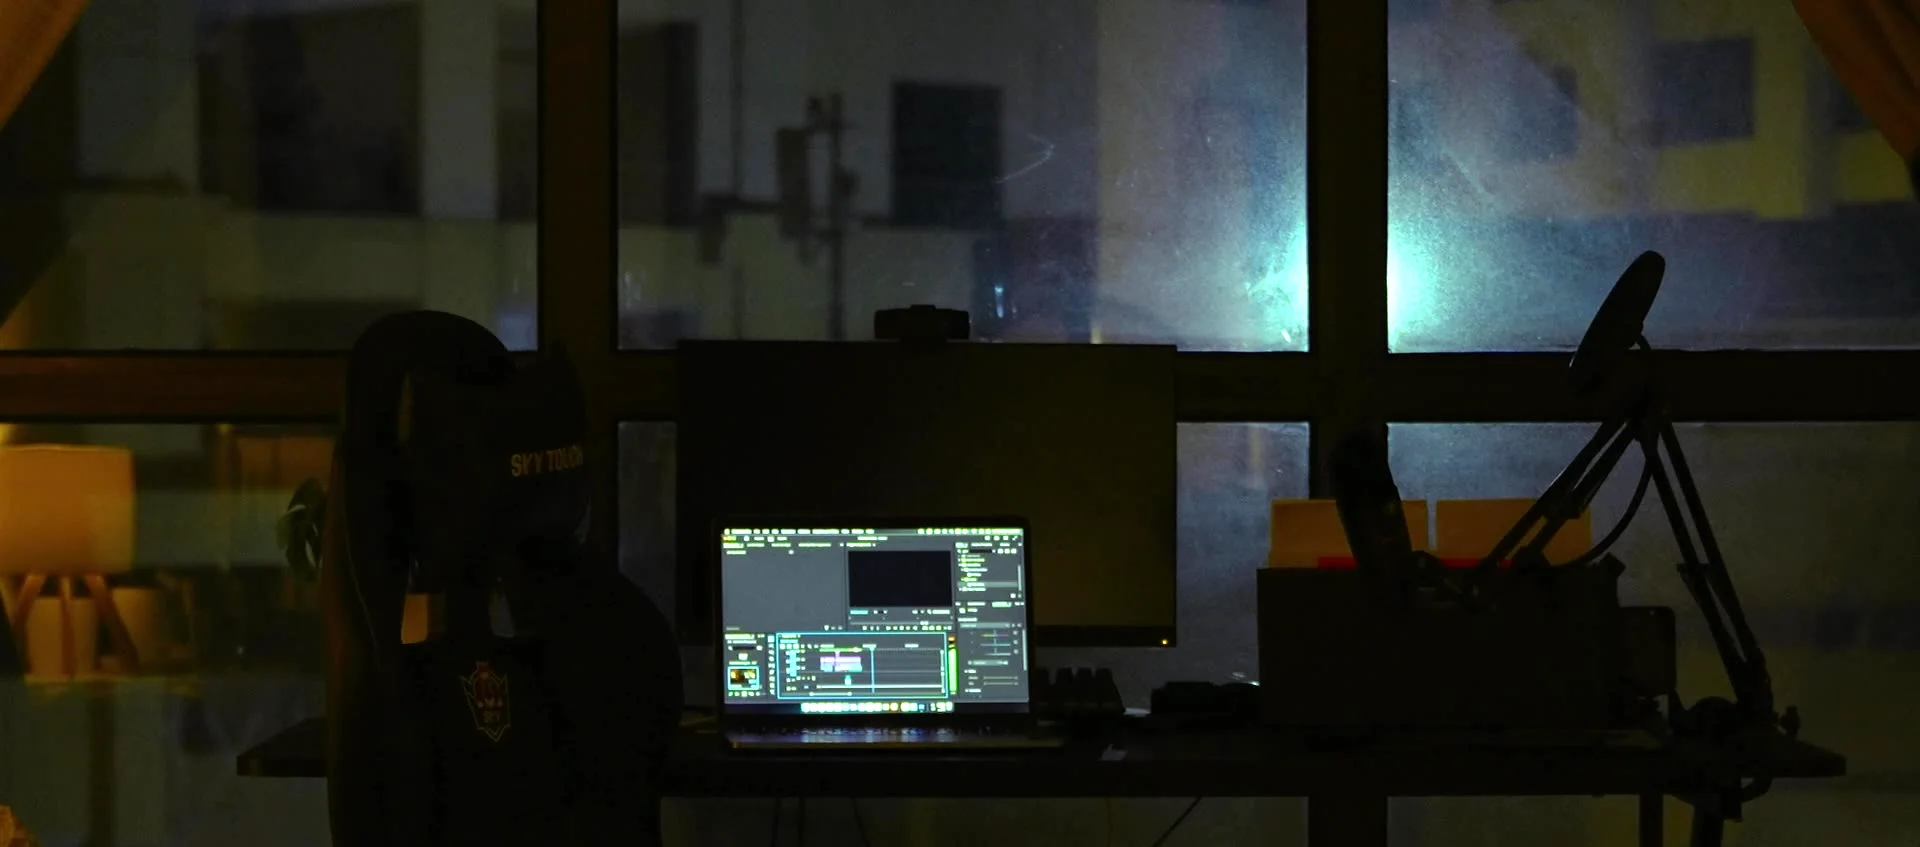
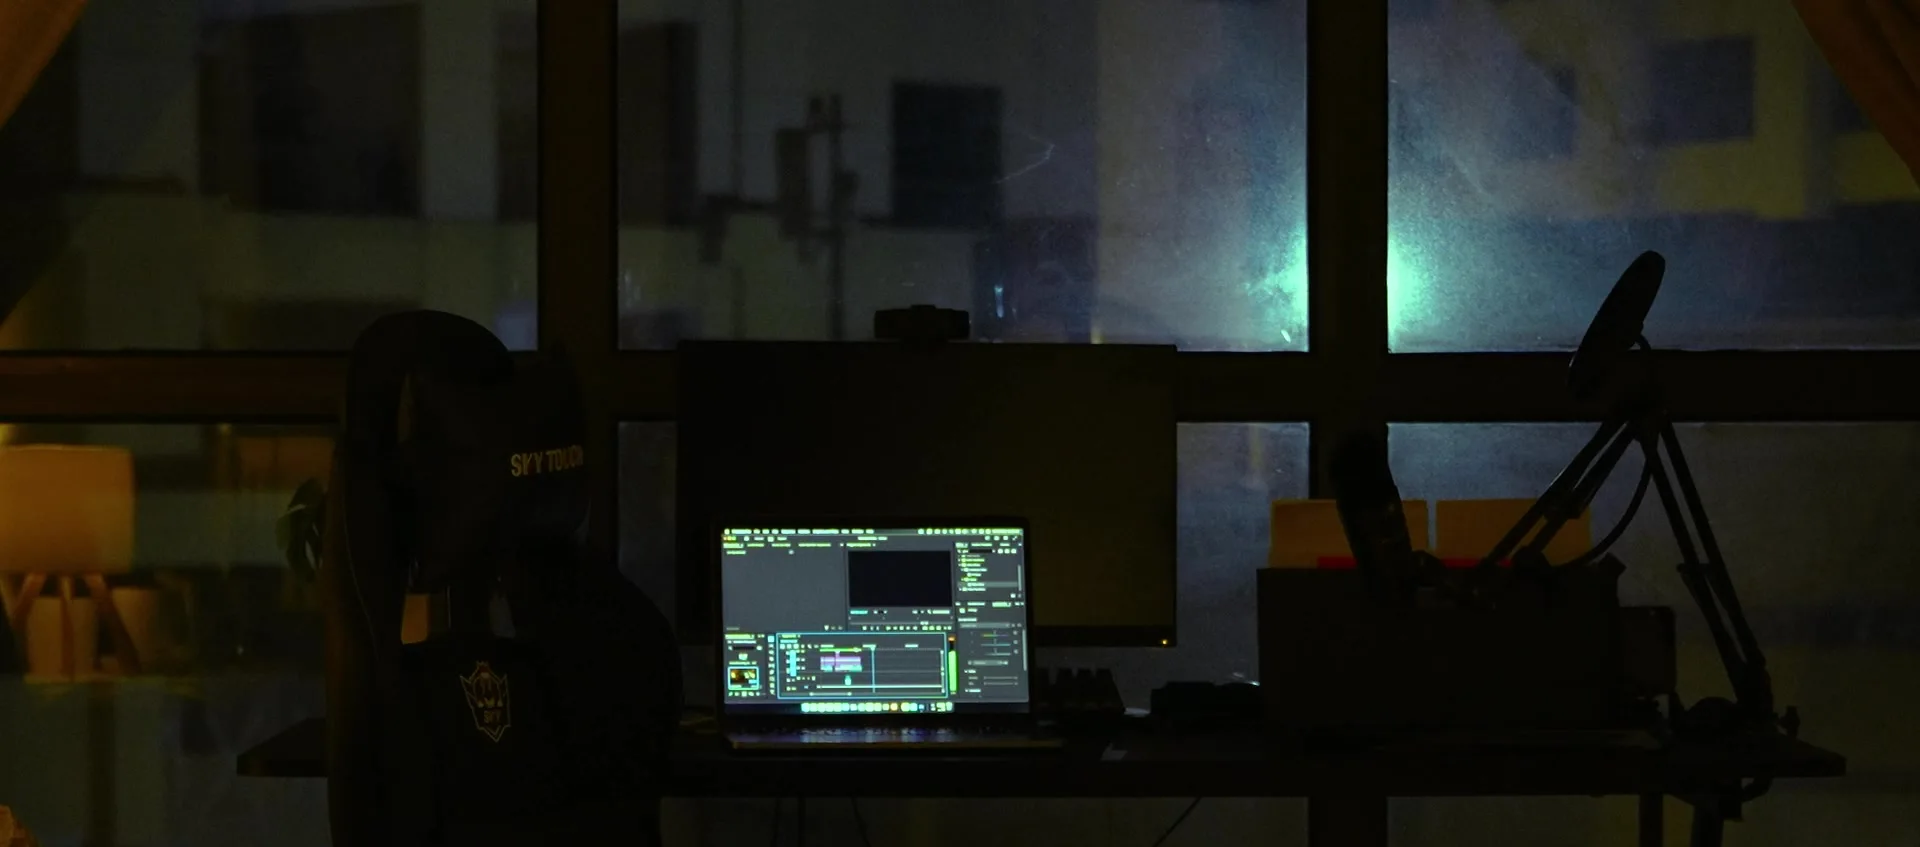
Warwick Application: swap talking-head stills for the film's crafted shots (laptop reveal, 2023 notebook, flip screen, numbered doorway, phone insert, stick figures, editing room)
Claude-Session: https://claude.ai/code/session_018QDTE4aDZzMt5PTbKA9SMX

diff --git a/warwick-application.html b/warwick-application.html
@@ -169,8 +169,8 @@
 </section>
 
 <section class="sc-reel" aria-label="Frames">
-  <figure class="sc-f sc-full reveal"><img src="assets/img/work/warwick/to-camera.webp" loading="lazy" alt="Jack talking straight to camera in a dim, warm-lit room"></figure>
-  <div class="sc-pair"><figure class="sc-f reveal"><img src="assets/img/work/warwick/desk.webp" loading="lazy" alt="Jack looking down at his desk under Route 66 and licence plate signs"></figure><figure class="sc-f reveal"><img src="assets/img/work/warwick/stick-figures.webp" loading="lazy" alt="Stick-figure animation of the three-person crew, each with a camera or clapperboard"></figure></div>
+  <figure class="sc-f sc-full reveal"><img src="assets/img/work/warwick/laptop-reveal.webp" loading="lazy" alt="Jack lit from below as he opens a glowing laptop"></figure>
+  <div class="sc-pair"><figure class="sc-f reveal"><img src="assets/img/work/warwick/notebook.webp" loading="lazy" alt="2023 written in a notebook"></figure><figure class="sc-f reveal"><img src="assets/img/work/warwick/flip-screen.webp" loading="lazy" alt="Jack seen on the flip-out screen of a camera"></figure></div>
 </section>
 
 <section class="sc-text sc-text-alt">
@@ -184,8 +184,9 @@
 </section>
 
 <section class="sc-reel" aria-label="Frames">
+  <figure class="sc-f sc-full reveal"><img src="assets/img/work/warwick/doorway-three.webp" loading="lazy" alt="Jack in a warm-lit doorway with a large yellow number three across his back"></figure>
+  <div class="sc-pair"><figure class="sc-f reveal"><img src="assets/img/work/warwick/phone-laptop.webp" loading="lazy" alt="A phone showing 5:50 resting on a closed laptop"></figure><figure class="sc-f reveal"><img src="assets/img/work/warwick/stick-figures.webp" loading="lazy" alt="Stick-figure animation of the three-person crew, each with a camera or clapperboard"></figure></div>
   <figure class="sc-f sc-full reveal"><img src="assets/img/work/warwick/editing-room.webp" loading="lazy" alt="A dark room at night, an edit open on the laptop by the window"></figure>
-  <div class="sc-pair"><figure class="sc-f reveal"><img src="assets/img/work/warwick/route-66.webp" loading="lazy" alt="Jack at his desk in front of a wall of licence plates"></figure><figure class="sc-f reveal"><img src="assets/img/work/warwick/sofa.webp" loading="lazy" alt="Jack on a sofa, mid-sentence, talking to camera"></figure></div>
 </section>
 
 <a class="sc-next" href="/never-felt-so-alone">

diff --git a/tools/gen_projects.py b/tools/gen_projects.py
@@ -195,12 +195,13 @@ P['warwick-application'] = dict(
     logline='Five minutes, straight to camera: who Jack is, and the three projects that taught him how to make things.',
     billing=[('Written, shot & edited by', 'Jack Careem'), ('Year', '2025'), ('Made for', 'University of Warwick application'), ('Runtime', '5 minutes')],
     film=dict(src='assets/video/warwick-application/index.m3u8', poster=W + 'poster.webp', title='Warwick Application', runtime='5:03'),
-    frames=[(W + 'to-camera.webp', 'Jack talking straight to camera in a dim, warm-lit room'),
-            (W + 'desk.webp', 'Jack looking down at his desk under Route 66 and licence plate signs'),
+    frames=[(W + 'laptop-reveal.webp', 'Jack lit from below as he opens a glowing laptop'),
+            (W + 'notebook.webp', '2023 written in a notebook'),
+            (W + 'flip-screen.webp', 'Jack seen on the flip-out screen of a camera'),
+            (W + 'doorway-three.webp', 'Jack in a warm-lit doorway with a large yellow number three across his back'),
+            (W + 'phone-laptop.webp', 'A phone showing 5:50 resting on a closed laptop'),
             (W + 'stick-figures.webp', 'Stick-figure animation of the three-person crew, each with a camera or clapperboard'),
-            (W + 'editing-room.webp', 'A dark room at night, an edit open on the laptop by the window'),
-            (W + 'route-66.webp', 'Jack at his desk in front of a wall of licence plates'),
-            (W + 'sofa.webp', 'Jack on a sofa, mid-sentence, talking to camera')],
+            (W + 'editing-room.webp', 'A dark room at night, an edit open on the laptop by the window')],
     blocks=[('film',),
             ('text', 'The brief', [
                 'Applicants were asked for a short video introducing themselves. Jack made a five-minute film instead: half confession, half showreel.',
@@ -209,7 +210,7 @@ P['warwick-application'] = dict(
             ('text', 'Making it', [
                 'Each project gets its own look. The Head Boy section leans into being shot on a phone, with a retro 4:3 frame and a scrapbook feel. The rest mixes talking to camera with stick-figure animation, behind-the-scenes clips and recreated scenes.',
                 'Jack wrote, shot and cut all of it around his own narration, captions included.']),
-            ('reel', 3, 6)])
+            ('reel', 3, 7)])
 
 
 def fig(src, alt, cls=''):
